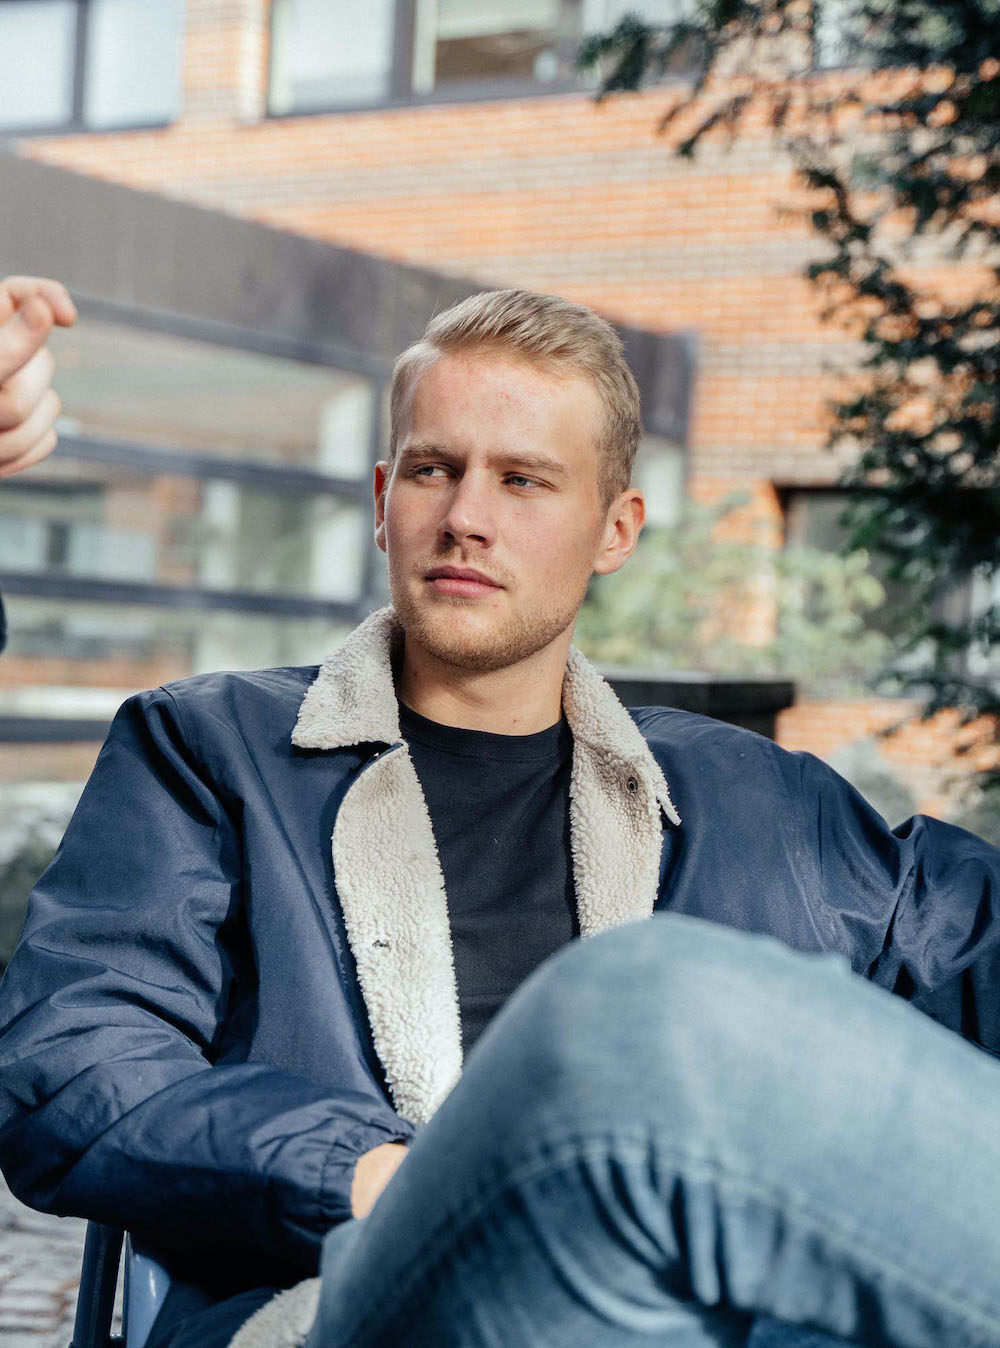
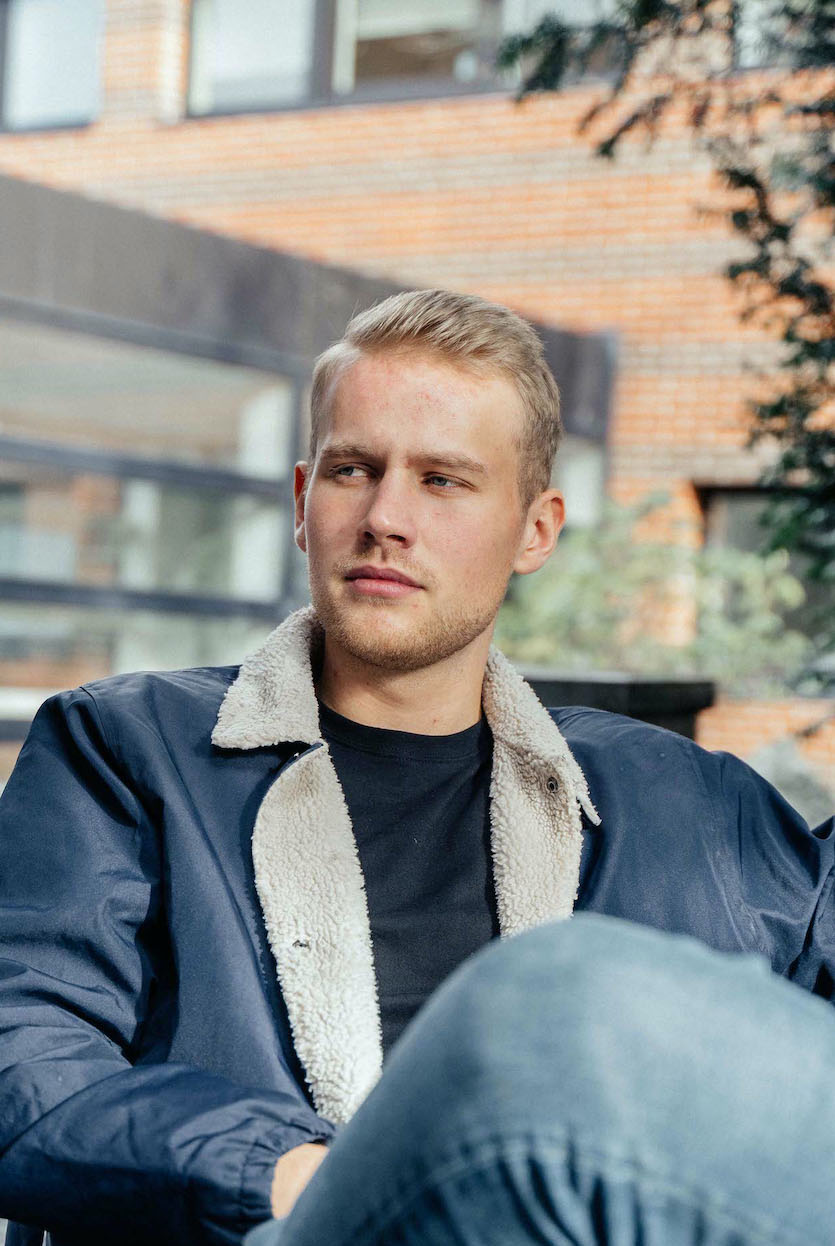
updated image

diff --git a/css/style.scss b/css/style.scss
@@ -191,13 +191,6 @@ body {
             }
         }
 
-        #background_img {
-            position: absolute;
-            top: 0;
-            left: 0;
-            width: 100%;
-        }
-
         #switch {
             position: absolute;
             top: 30px;
@@ -509,6 +502,9 @@ body {
                 width: 100%;
                 margin-top: 30px;
                 transition: 0.1s all;
+                border-radius: 50%;
+                align-self: center;
+                border: 3px solid $nav_1;
 
                 @include desktop {
                     margin-top: 0;

diff --git a/css/style.css b/css/style.css
@@ -173,13 +173,6 @@ body header nav a:hover {
   }
 }
 
-body header #background_img {
-  position: absolute;
-  top: 0;
-  left: 0;
-  width: 100%;
-}
-
 body header #switch {
   position: absolute;
   top: 30px;
@@ -511,6 +504,11 @@ body main #about img {
   margin-top: 30px;
   -webkit-transition: 0.1s all;
   transition: 0.1s all;
+  border-radius: 50%;
+  -ms-flex-item-align: center;
+      -ms-grid-row-align: center;
+      align-self: center;
+  border: 3px solid #02684C;
 }
 
 @media (min-width: 800px) {

diff --git a/index.html b/index.html
@@ -133,7 +133,7 @@
                     </ul>
                     <a href="assets/test.pdf" target="_blank" class="button"></a>
                 </div>
-                <img src="assets/portrait.jpg" alt="">
+                <img src="assets/portrait1.jpg" alt="">
             </div>
             <section id="contact">
                 <h1></h1>
